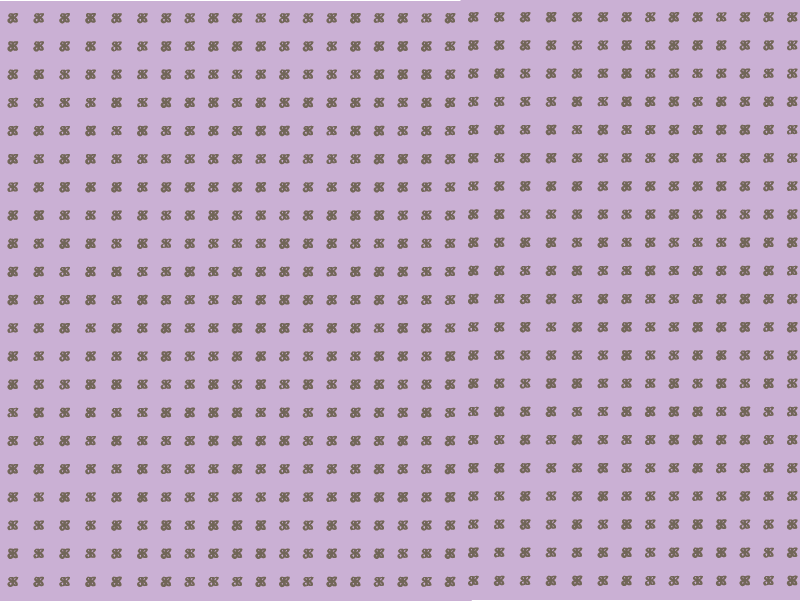
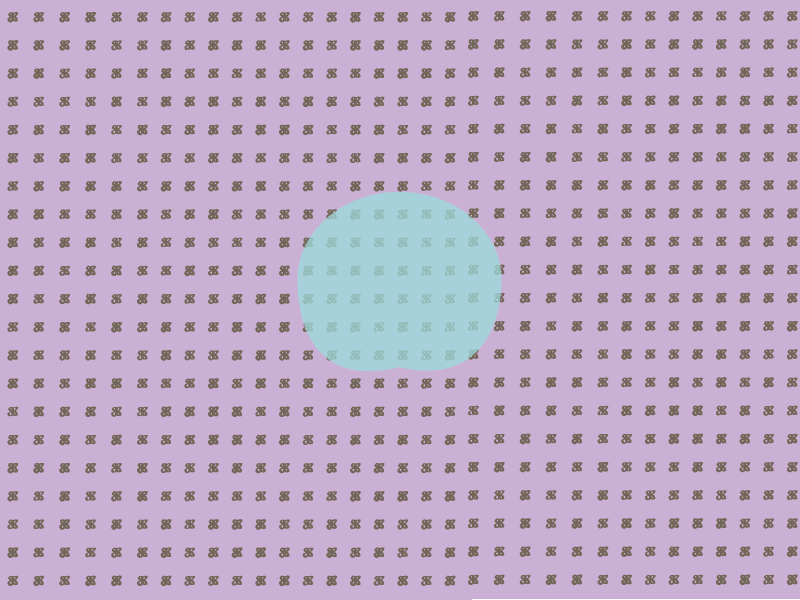
Add new treat, finish level layouts

diff --git a/src/app.ts b/src/app.ts
@@ -66,12 +66,17 @@ class SimpleGame {
             this.catSpriteManager.loadSpritesForCat("hairless");
         }
 
+        /* Treat */
+        this.game.load.image("fish_treat", "fish_treat.png");
+
         /* Debug Sprites */
         this.game.load.image("debug_wall", "debug_wall.png");
 
         /* Start Level */
         this.game.load.image("start_background", "levels/start/start_background.png");
         this.game.load.image("start_sprite_floor", "levels/start/start_sprite_floor.png");
+        this.game.load.image("start_sprite_bed", "levels/start/start_sprite_bed.png");
+        this.game.load.image("start_sprite_curtains", "levels/start/start_sprite_curtains.png");
 
         /* Box Level*/
         this.game.load.image("box_background", "levels/box/box_background.png");
@@ -166,7 +171,7 @@ class SimpleGame {
         this.levelManager = new LevelManager(this.game, this.collisions, this.groupManager, this.soundManager);
         this.levelManager.startLevel(0);
 
-        this.fishy = new Fishy(this.game, this.collisions, 100, 400, 400, 500, 50);
+        this.fishy = new Fishy(this.game, this.collisions, 350, 250, 450, 270, 20);
         //this.fishy.onEaten.add(function() {console.log("The fish has been eaten, you won!");});
 
         this.mouseBody = this.game.add.sprite(100, 100, 'cursor');

diff --git a/src/LevelManager.ts b/src/LevelManager.ts
@@ -56,7 +56,7 @@ export class LevelManager {
         );
 
         this.activeWorld = new ActiveWorldExt(
-            this.game, 
+            this.game,
             level,
             this.collisionManager,
             this.groupManager,
@@ -89,7 +89,9 @@ export class LevelManager {
         level.createElements(this.activeWorld);
         level.createForegroundElements(this.activeWorld);
 
-        this.cam.change(800 * 9, 800 * 10, true, 5000);
+        if (!FULL_DEBUG_MODE) {
+            this.cam.change(800 * 9, 800 * 10, true, 6000);
+        }
     }
 
     public getCat(): Cat {
@@ -211,7 +213,7 @@ class Level {
 
 
     public constructor(level: any) {
-        this.cat_startx = level.catstart.x;
+        this.cat_startx = level.catstart.x + ((9 - level.catstart.level) * 800);
         this.cat_starty = level.catstart.y;
 
         this.name = level.name;

diff --git a/src/Treat.ts b/src/Treat.ts
@@ -1,7 +1,7 @@
 import { CollisionManager } from "./CollisionManager";
 import { SoundManager } from "./SoundManager";
 
-const DEBUG = true;
+const DEBUG = false;
 
 export class Treat {
   private game: Phaser.Game;
@@ -23,7 +23,7 @@ export class Treat {
     sounds: SoundManager,
     x: number,
     y: number,
-    image: string = "treat_img",
+    image: string = "fish_treat",
     edible: boolean = true,
     radius: number = 14
   ) {
